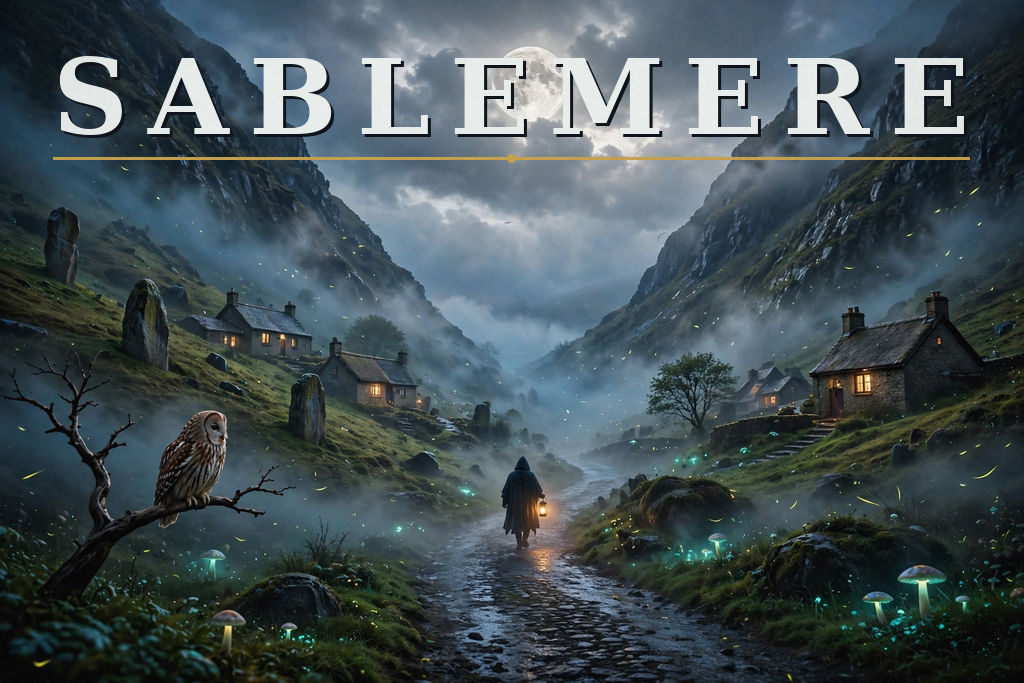
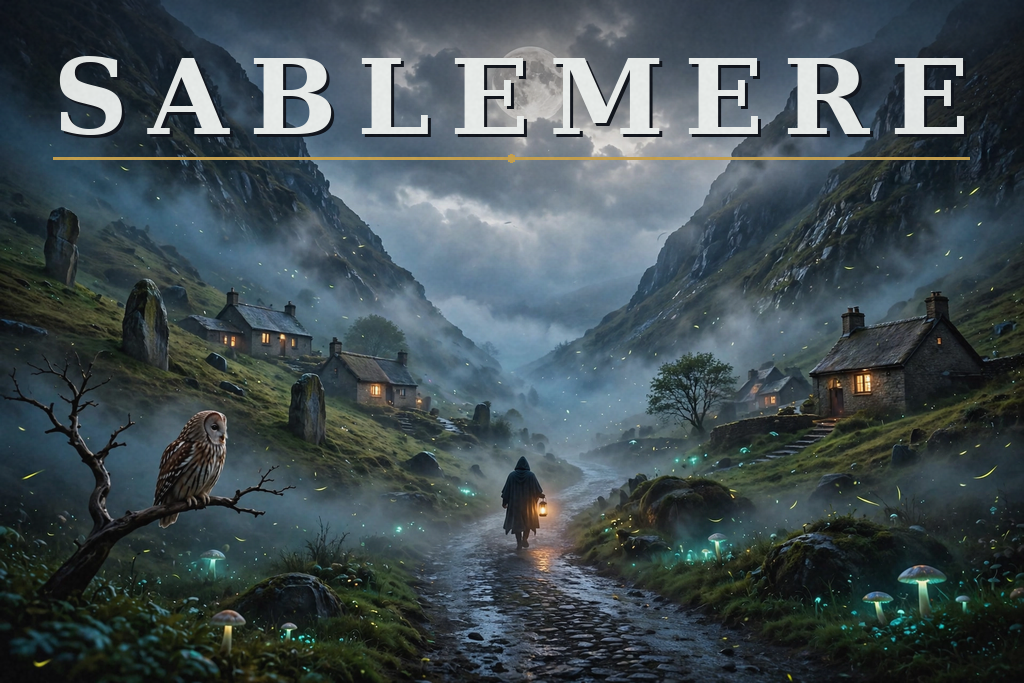
SABLEMERE — title band + grain 7%

Changed region(s): [[0.1562, 0.0, 0.9375, 0.2152]]

diff --git a/render.py b/render.py
@@ -55,6 +55,18 @@ def draw_gold_rule(canvas, left, right, y):
     pen.ellipse([mid - 4, y - 4, mid + 4, y + 4], fill=RULE_GOLD)
 
 
+def add_title_band(img, height=180, top_alpha=110):
+    """Dark gradient behind the title, fading to nothing, so the name stays
+    crisp even where the moon sits behind the middle letters."""
+    w, _ = img.size
+    ramp = Image.new("L", (1, height))
+    ramp.putdata([round(top_alpha * (1 - y / height)) for y in range(height)])
+    ramp = ramp.resize((w, height))
+    tint = Image.new("RGBA", (w, height), (8, 10, 18, 255))
+    img.paste(tint, (0, 0), ramp)
+    return img
+
+
 def soften_edges(img):
     """Darken the corners gently so the eye stays on the road and the moon."""
     w, h = img.size
@@ -97,13 +109,14 @@ def main():
     scene = Image.open(BASE_PATH).convert("RGB")
     poster = fit_to_width(scene, TARGET_WIDTH)
     poster = poster.convert("RGBA")
+    poster = add_title_band(poster)
 
     font = ImageFont.truetype(SERIF, TITLE_SIZE)
     left, right = draw_spaced_title(poster, TITLE, font, top=36)
     draw_gold_rule(poster, left, right, y=36 + TITLE_SIZE + 18)
 
     poster = soften_edges(poster)
-    poster = add_grain(poster.convert("RGB"))
+    poster = add_grain(poster.convert("RGB"), strength=0.07)
 
     size = save_under_cap(poster, OUT_PATH)
     print(f"wrote {OUT_PATH}: {poster.size[0]}x{poster.size[1]}, {size} bytes")
